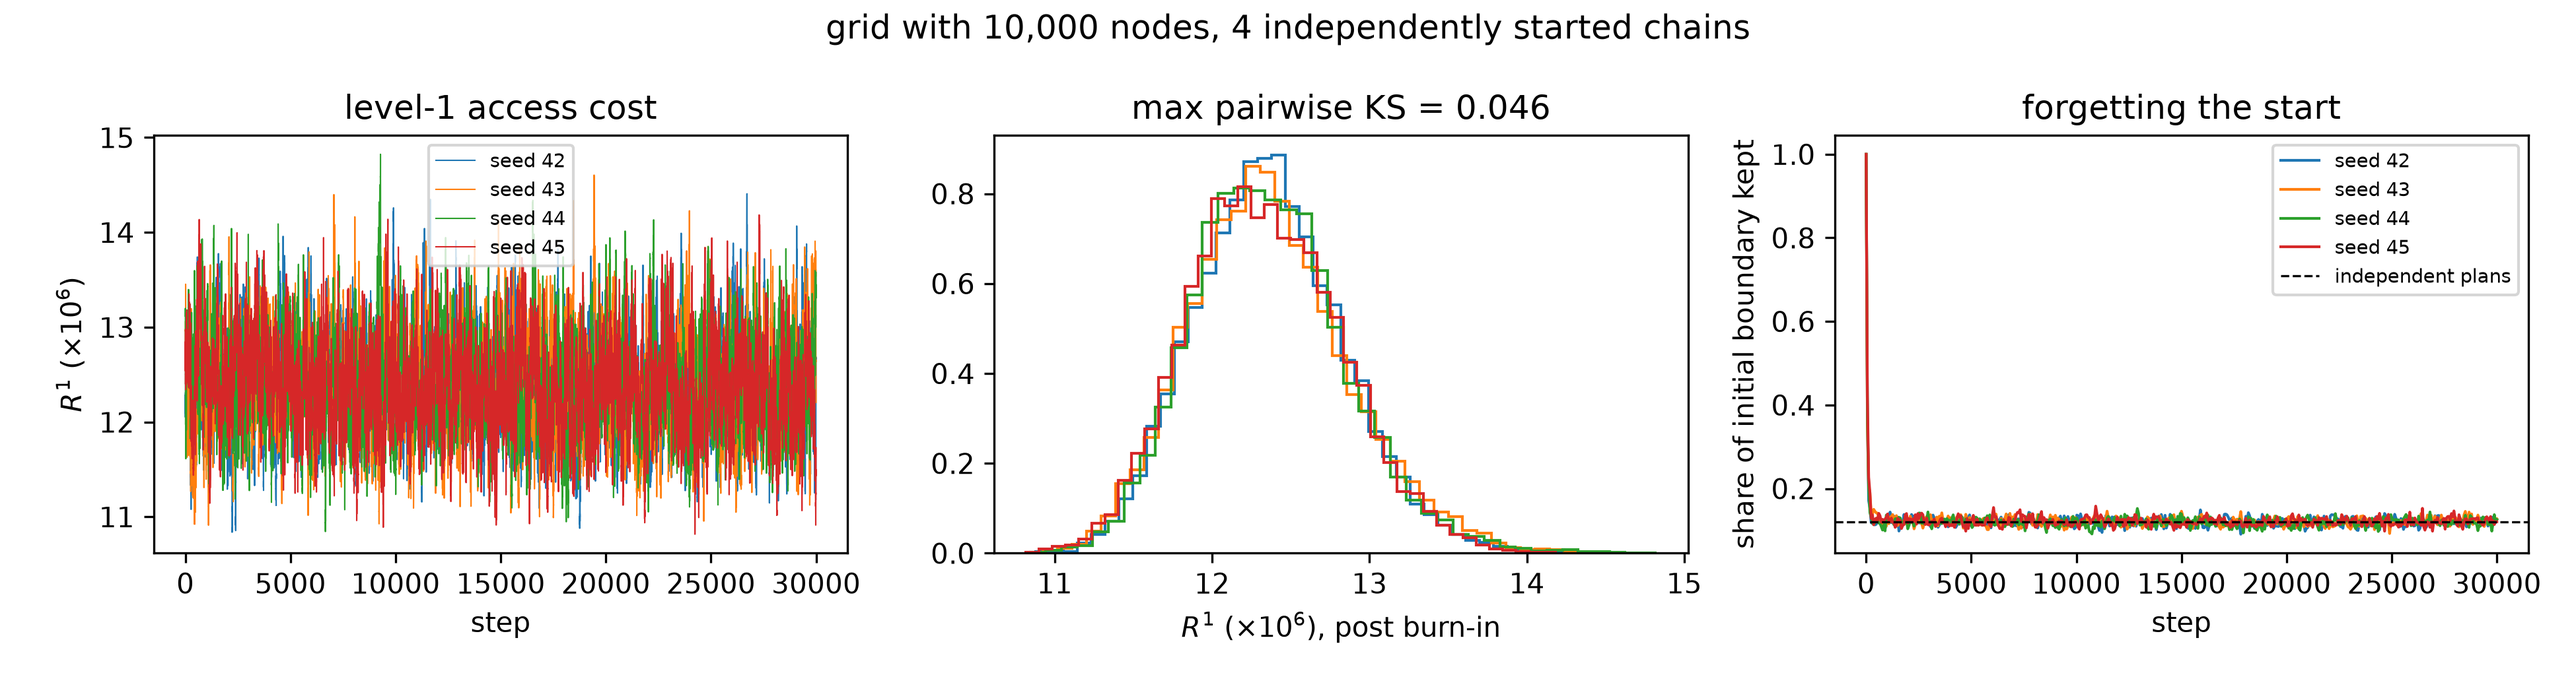
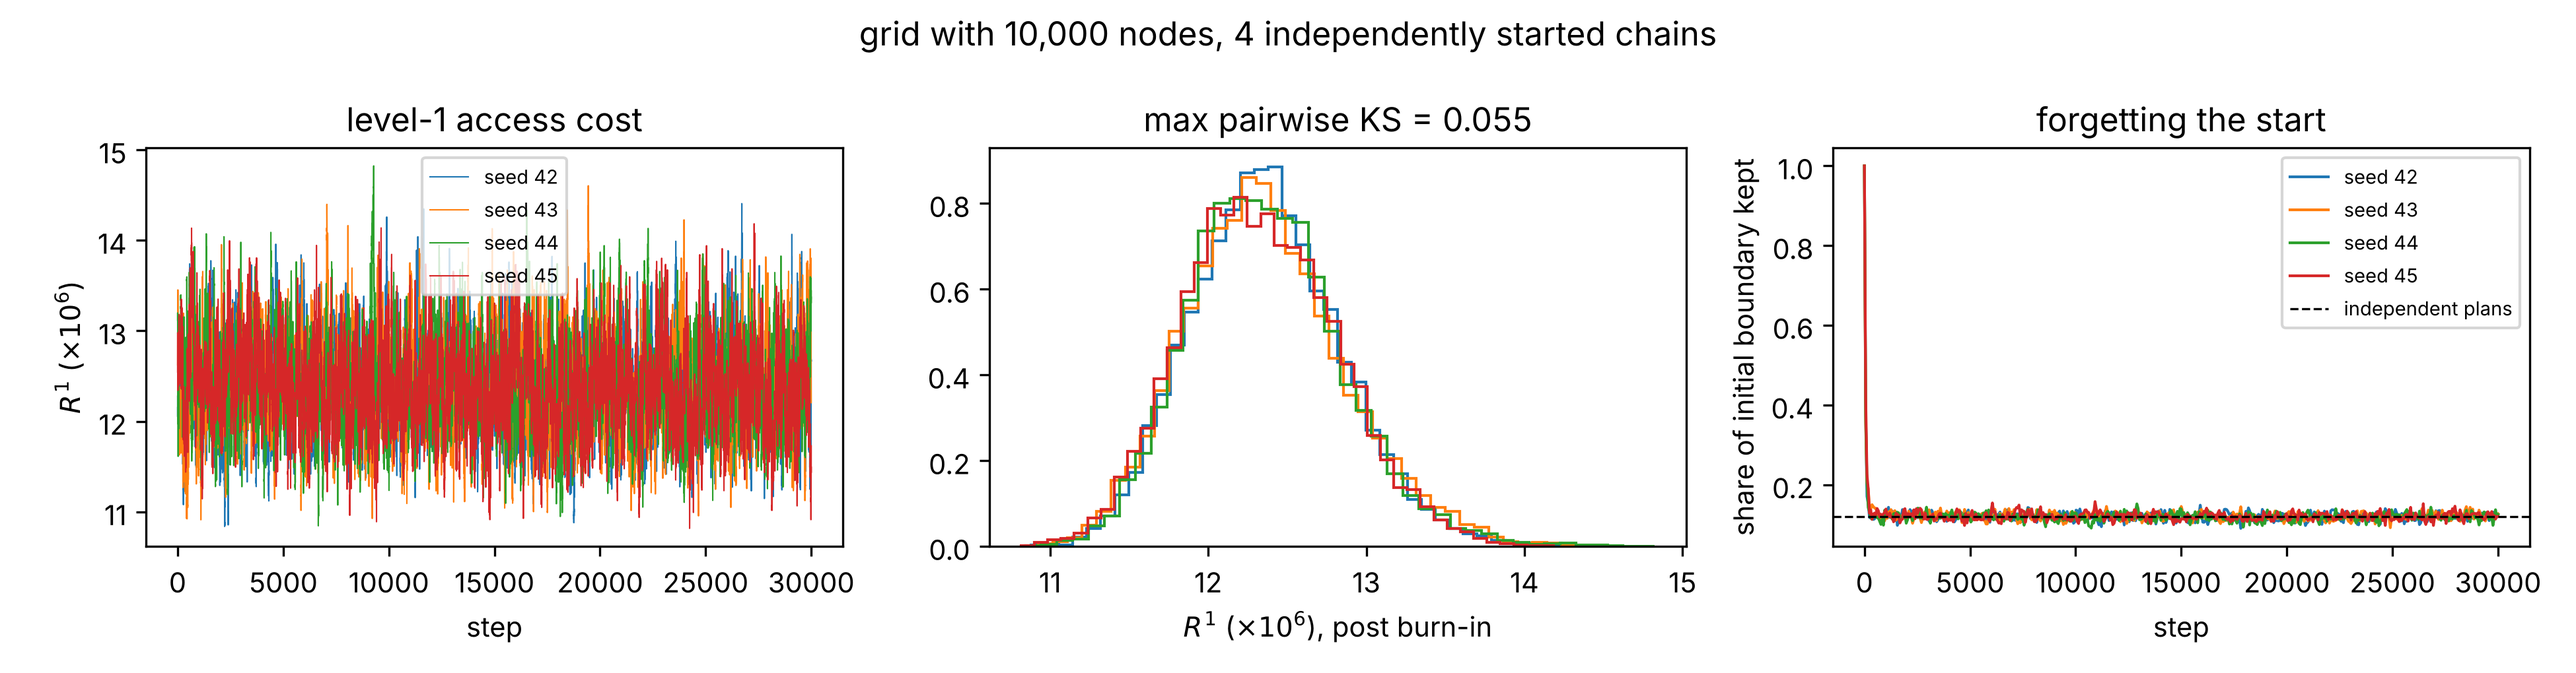
Multi-start analysis: district count, superdistrict count, cut edges and capacity mix as further observables
Claude-Session: https://claude.ai/code/session_01EP3hwQjccvmCNLTGtn2bwo

diff --git a/falcomchain_experiments/scalability/analyze_multistart.py b/falcomchain_experiments/scalability/analyze_multistart.py
@@ -75,8 +75,10 @@ def main():
                               for s, r in runs.items()}}
 
     # ---- observables: pairwise KS, split-R-hat, ESS -------------------------
-    for key in ("R1", "dspread"):
+    for key in ("R1", "dspread", "n_districts"):
         seqs = {s: np.array([x[key] for x in r["steps"] if key in x], dtype=float) for s, r in runs.items()}
+        if any(len(v) == 0 for v in seqs.values()):
+            continue
         L = min(len(v) for v in seqs.values()); b = int(args.burnin * L)
         post = {s: v[:L][b:] for s, v in seqs.items()}
         arr = np.stack([post[s] for s in args.seeds])
@@ -118,6 +120,30 @@ def main():
             hit = [st for st, sh in zip(steps[s], forgetting[s]) if sh <= 1.1 * base]
             t_forget[s] = int(hit[0]) if hit else None
         out["forgetting"]["steps_to_baseline"] = t_forget
+
+        # ---- partition-level observables on the stored plans ---------------
+        # (superdistrict count, cut-edge count, share of unit-capacity districts),
+        # one value per stored plan, post burn-in; KS between chains and between halves.
+        def plan_series(S):
+            n_sup, n_cut, cap1 = [], [], []
+            for d, su, cp in zip(S["district"], S["super"], S["capacity"]):
+                n_sup.append(len(np.unique(su)))
+                n_cut.append(int((d[edges[:, 0]] != d[edges[:, 1]]).sum()))
+                caps = {int(a): int(b) for a, b in zip(d, cp)}
+                cap1.append(sum(1 for v in caps.values() if v == 1) / max(1, len(caps)))
+            return {"n_superdistricts": np.array(n_sup, float), "cut_edges": np.array(n_cut, float),
+                    "share_unit_capacity_districts": np.array(cap1, float)}
+        series = {s: plan_series(S) for s, S in snaps.items()}
+        for key in ("n_superdistricts", "cut_edges", "share_unit_capacity_districts"):
+            post = {s: series[s][key][np.array(steps[s]) >= cut] for s in snaps}
+            ks = {f"{a}-{c}": ks_statistic(post[a], post[c]) for a, c in itertools.combinations(list(snaps), 2)}
+            halves = {s: ks_statistic(v[: len(v) // 2], v[len(v) // 2:]) for s, v in post.items()}
+            out[key] = {"means": {s: float(v.mean()) for s, v in post.items()},
+                        "pairwise_ks": ks, "max_pairwise_ks": max(ks.values()),
+                        "within_chain_halves_ks": halves,
+                        "within_chain_halves_ks_range": [min(halves.values()), max(halves.values())],
+                        "plans_per_chain": int(min(len(v) for v in post.values())),
+                        "source": "stored plans (every snap_every steps), post burn-in, no further thinning"}
 
     # ---- figure ---------------------------------------------------------------
     try:
